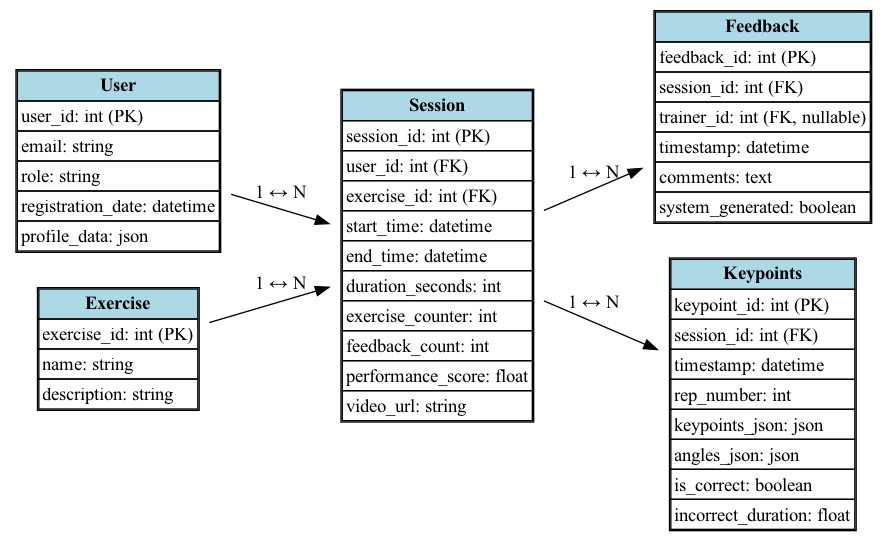
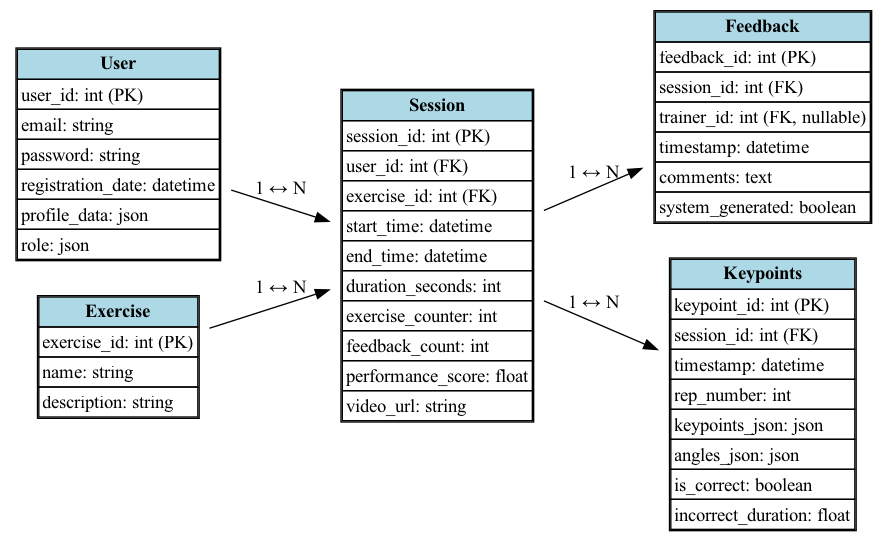
fix DB architecture-2

Changed region(s): [[0.0, 0.0887, 0.3649, 0.5028], [0.0304, 0.5323, 0.3041, 0.7985], [0.3041, 0.5028, 0.3649, 0.5619]]

diff --git a/ERD/create_erd.py b/ERD/create_erd.py
@@ -75,16 +75,18 @@ def add_table(name, fields):
     label += "</TABLE>>"
     dot.node(name, label=label, shape='plaintext')
 
-# 🧍♂ User
+
+# 🧍♂ User table
 add_table('User', [
     'user_id: int (PK)',
     'email: string',
-    'role: string',  # 'trainee' | 'trainer' | 'admin'
+    'password: string',        # hashed password
     'registration_date: datetime',
-    'profile_data: json'  # includes name, dob, height, weight etc.
+    'profile_data: json',      # includes name, dob, height, weight, etc.
+    'role: json'               # {role: "trainer", permissions: [...]}
 ])
 
-# 🏋♀ Training Sessions
+# 🏋♀ Training Session
 add_table('Session', [
     'session_id: int (PK)',
     'user_id: int (FK)',
@@ -105,7 +107,7 @@ add_table('Exercise', [
     'description: string'
 ])
 
-# 💬 Feedback by trainer or system
+# 💬 Feedback (system or trainer)
 add_table('Feedback', [
     'feedback_id: int (PK)',
     'session_id: int (FK)',
@@ -115,17 +117,18 @@ add_table('Feedback', [
     'system_generated: boolean'
 ])
 
-# 📈 Keypoints or performance snapshots
+# 📈 Keypoints and angles
 add_table('Keypoints', [
     'keypoint_id: int (PK)',
     'session_id: int (FK)',
     'timestamp: datetime',
     'rep_number: int',
-    'keypoints_json: json',   # raw joint positions
-    'angles_json: json',      # derived angles (elbow, back, etc.)
+    'keypoints_json: json',     # raw joints data
+    'angles_json: json',        # calculated angles
     'is_correct: boolean',
     'incorrect_duration: float'
 ])
+
 
 # 🔗 Relationships
 dot.edge('User', 'Session', label='1 ↔ N')
@@ -133,7 +136,7 @@ dot.edge('Session', 'Keypoints', label='1 ↔ N')
 dot.edge('Session', 'Feedback', label='1 ↔ N')
 dot.edge('Exercise', 'Session', label='1 ↔ N')
 
-# 🖼 Save as PNG and PDF
+# Save the diagram
 dot.render('training_erd_png', format='png', cleanup=True)
 dot.render('training_erd_pdf', format='pdf', cleanup=True)
 
@@ -154,11 +157,12 @@ exercise feedback, session tracking, trainer involvement, and performance analys
 Represents all platform users, whether trainees, trainers, or admins.
 
 Fields:
-- user_id (PK): Unique ID per user
-- email: Email used for login
-- role: One of ['trainee', 'trainer', 'admin']
-- registration_date: Account creation time
-- profile_data (json): Dynamic personal information
+- user_id (PK): Unique identifier for each user
+- email: Email address used for authentication
+- password: Hashed password (never stored in plain text)
+- registration_date: Timestamp when the user registered
+- profile_data (json): Flexible schema for personal info such as name, date of birth, body metrics, etc.
+- role (json): Defines the user's role and permissions in a single structure
 
 Example profile_data:
 {
@@ -169,6 +173,17 @@ Example profile_data:
   "weight_kg": 72,
   "gender": "male"
 }
+
+Example role:
+{
+  "role": "trainer",
+  "permissions": [
+    "view_sessions",
+    "give_feedback",
+    "access_dashboard"
+  ]
+}
+
 
 ──────────────────────────────────────────────
 🏋♀ Session Table
